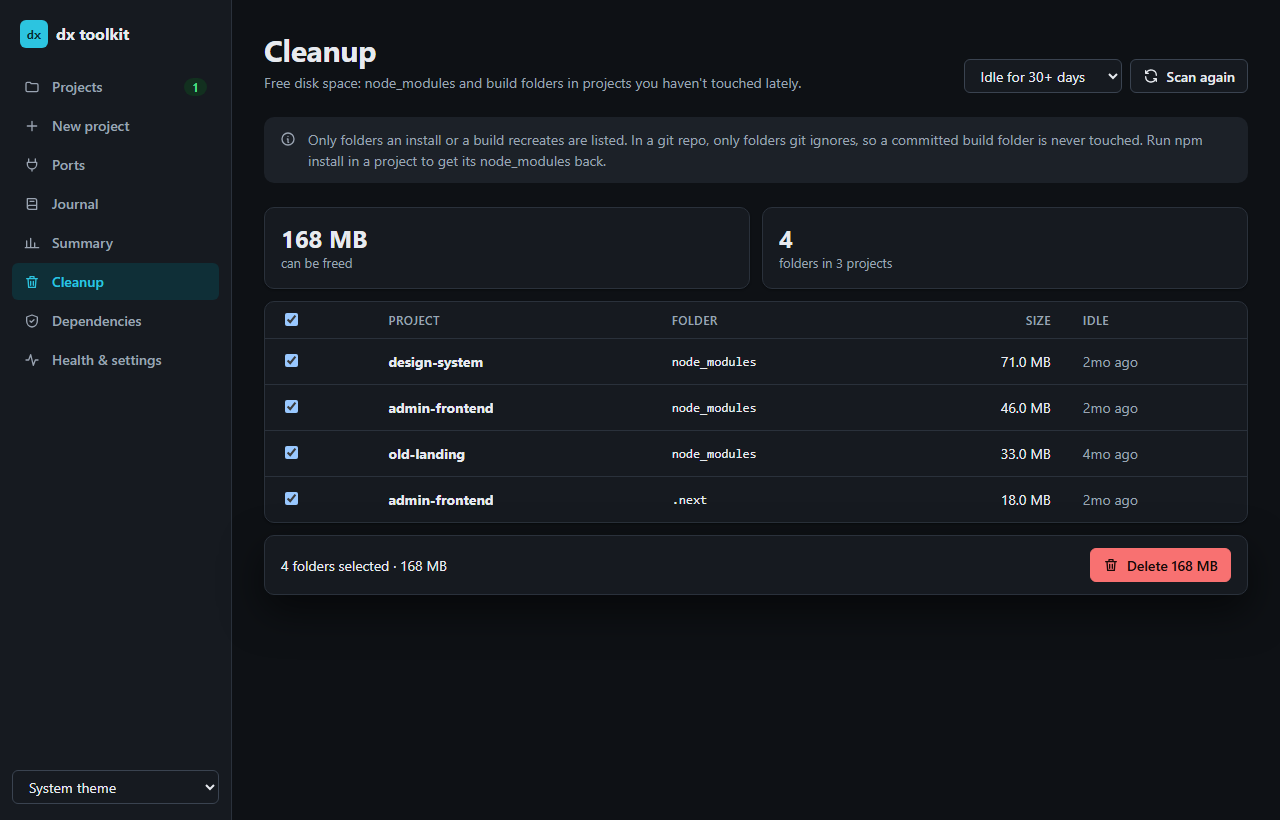
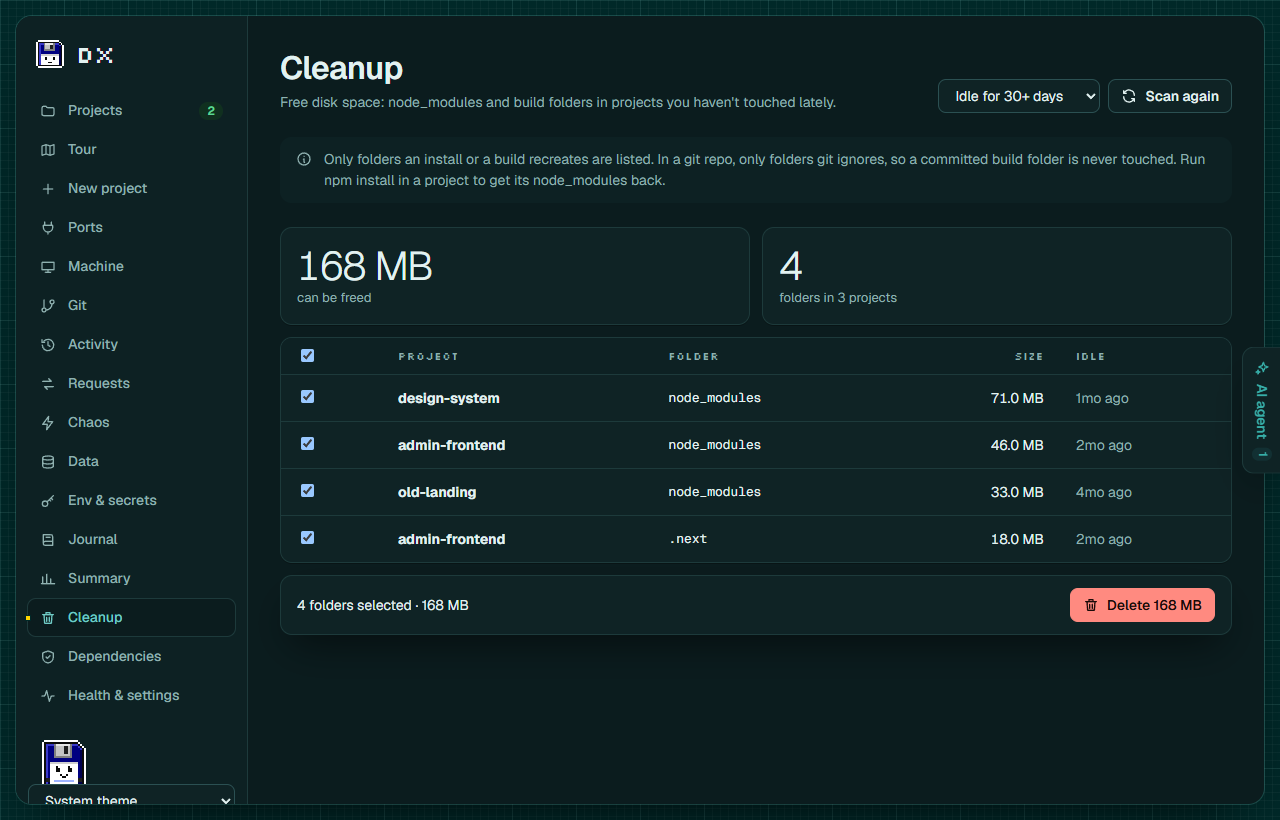
README screenshots in the new look
Projects (dark and light), Summary, Cleanup and Activity retaken from
made-up demo projects by a neutral author. Activity now shows its
two-column layout with a recorded staging site; Projects shows the AI
agent's tab at the edge. The two image descriptions that changed are
updated, and MEMORY says how to retake them.

diff --git a/docs/MEMORY.md b/docs/MEMORY.md
@@ -32,7 +32,6 @@ What was decided while building dx, and why, so the next session doesn't relearn
 - **Terminals beyond Windows**: Command Prompt, Windows PowerShell and Git Bash were opened for real on Windows; the macOS (iTerm2, Warp, Ghostty, kitty) and Linux launch commands are written from each one's documentation and haven't been run on those systems.
 - **The localhost door for stacks**: single-project dev servers are recorded at `localhost:<port>`; a stack's front end isn't moved yet. Next.js, Astro, Nuxt, Angular, webpack and Gatsby are moved by the documented flag but only Vite was tried for real.
 - **MongoDB in `dx db`**: only Postgres, MySQL/MariaDB and Redis today.
-- **README screenshots for the new look**: `docs/images/` still shows the old slate-and-cyan dashboard.
 - **Floppy beyond Windows**: the window is WPF, so macOS and Linux need their own (`dx floppy` says so there). Its click, drag and menu still need trying by hand on the maintainer's machine.
 - **Machine, next parts**:
   - caches (npm, pnpm store, yarn, bun, pip, Go, Gradle, Xcode DerivedData) on the Cleanup page, through each tool's own clean command;
@@ -58,7 +57,13 @@ What was decided while building dx, and why, so the next session doesn't relearn
     6. the agent watches that run and confirms the version on the registry (`https://registry.npmjs.org/dx-devkit`) and the GitHub release.
 
     **npm trusted publishing** (OIDC) means no npm token anywhere: npmjs.com's package settings name this repository and `release.yml`, set up once by the maintainer. The workflow upgrades npm (trusted publishing needs npm 11.5.1+). By hand, as a fallback, uses the maintainer's own logins on their machine; the agent never logs in or handles a token itself. npm answers a publish without a login with **404 Not Found**, not 401; so does a publish from CI before trusted publishing is set up.
-- **README screenshots** (`docs/images/`) come from made-up demo projects under a neutral author, taken with headless Edge/Chrome (`--screenshot`, `--blink-settings=preferredColorScheme=0|1`). Retake them the same way when a page changes; never from real projects.
+- **README screenshots** (`docs/images/`) come from made-up demo projects under a neutral author (`octocat`, `octocat@example.com`), never from real projects. Retake them the same way when a page changes:
+  - **A demo dashboard** with `DX_HOME` in a temp folder, `autoConnectAi: false`, `GITHUB_TOKEN`/`GH_TOKEN` unset and no GitHub remotes (so the Summary fetches nobody's pull requests). Servers started through `POST /api/dev/start` (`by: "ai"` for the AI one); the history, journal and `mcp.*` runs written as files (`appendActivity`, `callRecord`).
+  - **Paths read `~\dx-demo\…`** because the page shortens `C:\Users\<name>`: the projects are reached through a junction at `~/dx-demo`, removed afterwards with `rmdir` (the link only).
+  - **Each demo repo has a local bare remote** it's pushed to, or the Projects page warns about unpushed work.
+  - **Dates by mtime**: every working file first, then `git update-index --really-refresh`, then `.git/index`, `HEAD` and the folder. Dating tracked files after the index makes the dashboard's `git status` rewrite it, and every project reads "Active just now".
+  - **Captured through core's `withBrowser`**, not `--screenshot`: `Emulation.setDeviceMetricsOverride` (1280 × 900 for Projects, 1280 × 820 for the rest, scale 1), `setEmulatedMedia` for `prefers-color-scheme`, `dx.aiLane = closed` in localStorage so the agent's lane is its edge tab, fonts ready, then `Page.captureScreenshot`. Dark for all, plus `projects-light.png` for the README's `<picture>`.
+  - With port 80 taken (another dashboard), the `.localhost` addresses show `:1355`.
 
 ## Decisions
 
@@ -70,7 +75,7 @@ What was decided while building dx, and why, so the next session doesn't relearn
 - **Silkscreen only for the logo and small labels** (table headings), never sentences: pixel type is a brand cue, not a reading face.
 - **The sheet uses `overflow: clip`**, not `hidden`, so the sidebar's `position: sticky` still works.
 - **Floppy's SVGs** (`floppy.svg` logo and favicon, `floppy-idle.svg` in the sidebar) are drawn by `scripts/floppy-assets.mjs` from the same pixel art as the desktop Floppy: a rect per run of one colour, `crispEdges`.
-- **Not yet**: the README screenshots still show the old look; retake them from made-up demo projects, as the note on README screenshots says.
+- **The README screenshots were retaken in the new look** (Projects light and dark, Summary, Cleanup, Activity), as the note on README screenshots says.
 
 ### Floppy (`core/src/tools/floppy.ts`, `floppyWindow.ts`, `png.ts`; `web/src/floppy.ts`, `floppyapp.ts`, `floppysnap.ts`)
 

diff --git a/README.md b/README.md
@@ -6,7 +6,7 @@ Your projects, dev servers, ports, work journal and weekly summary in one place:
 
 <picture>
   <source media="(prefers-color-scheme: light)" srcset="docs/images/projects-light.png">
-  <img alt="The dx dashboard's Projects page: a running stack called shop, with its api and web services at api.shop.localhost and web.shop.localhost; a todo-app dev server marked Started by AI with 1 error; and the project list below." src="docs/images/projects.png">
+  <img alt="The dx dashboard's Projects page, a white sheet on a teal grid with Floppy the floppy disk as its logo: a running stack called shop, with its api and web services at api.shop.localhost and web.shop.localhost; a todo-app dev server marked Started by AI with 1 error and a Take over button; the project list below; and the AI agent's tab at the right edge." src="docs/images/projects.png">
 </picture>
 
 Each tool is written once in `packages/core` and can be used four ways:
@@ -130,7 +130,7 @@ Every app you open at its `.localhost` address (the address `dx up`, `dx go` and
 - **Console output** (`console.log`, `warn`, `error`) with the file and line that wrote it, and **uncaught errors** with their stack;
 - the **dev server** starting, getting ready, stopping and crashing, and each **error it printed**.
 
-![The Activity page: a visit to a shop app with its 2 clicks and 3 problems: the click on Add to cart, the route to /cart, the POST /api/cart answered 409, the console error and the uncaught TypeError that followed, with a Replay button; above it, a note that todo-app is running but hasn't been opened at its .localhost address.](docs/images/activity.png)
+![The Activity page: projects and a recorded staging site on the left, with shop selected; on the right, its visit to / with 2 clicks and 3 problems: the click on Add to cart, the route to /cart, the POST /api/cart answered 409, the console error and the uncaught TypeError that followed, then the click on Checkout, with Replay, Download bug bundle and Make mocks buttons.](docs/images/activity.png)
 
 See it on the **Activity** page, with `dx activity`, or ask your AI agent (`activity_log`). On the Activity page:
 
